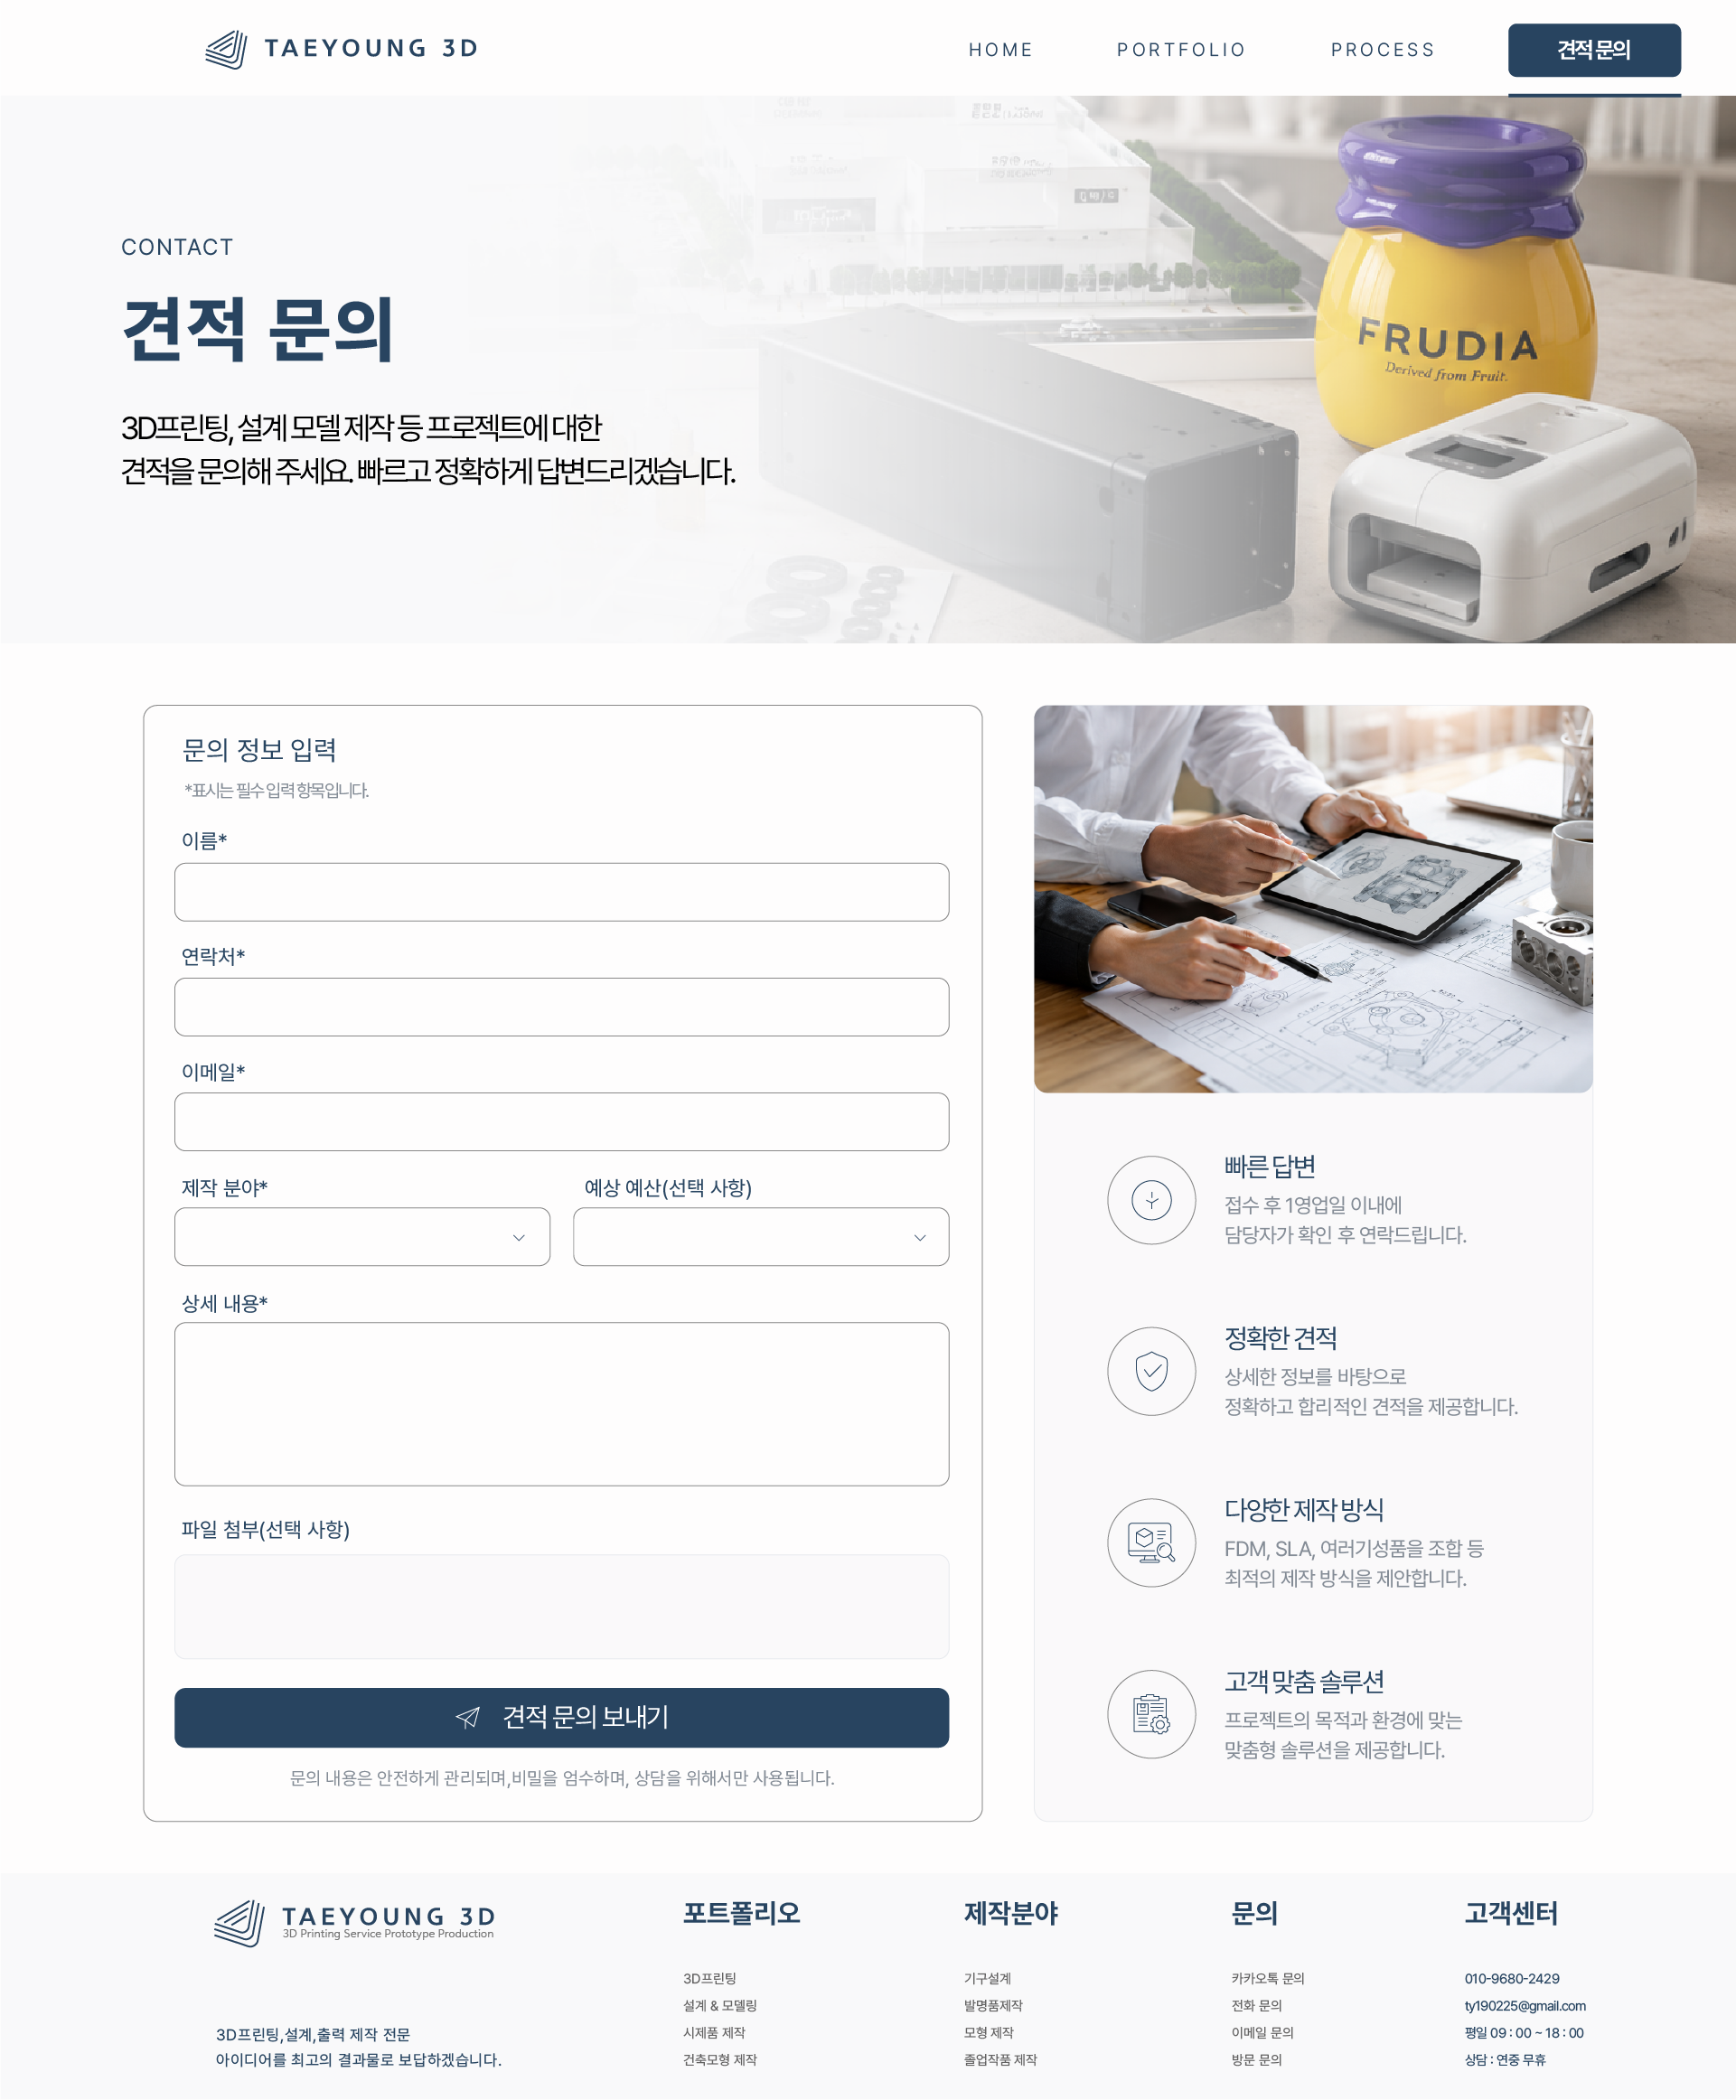
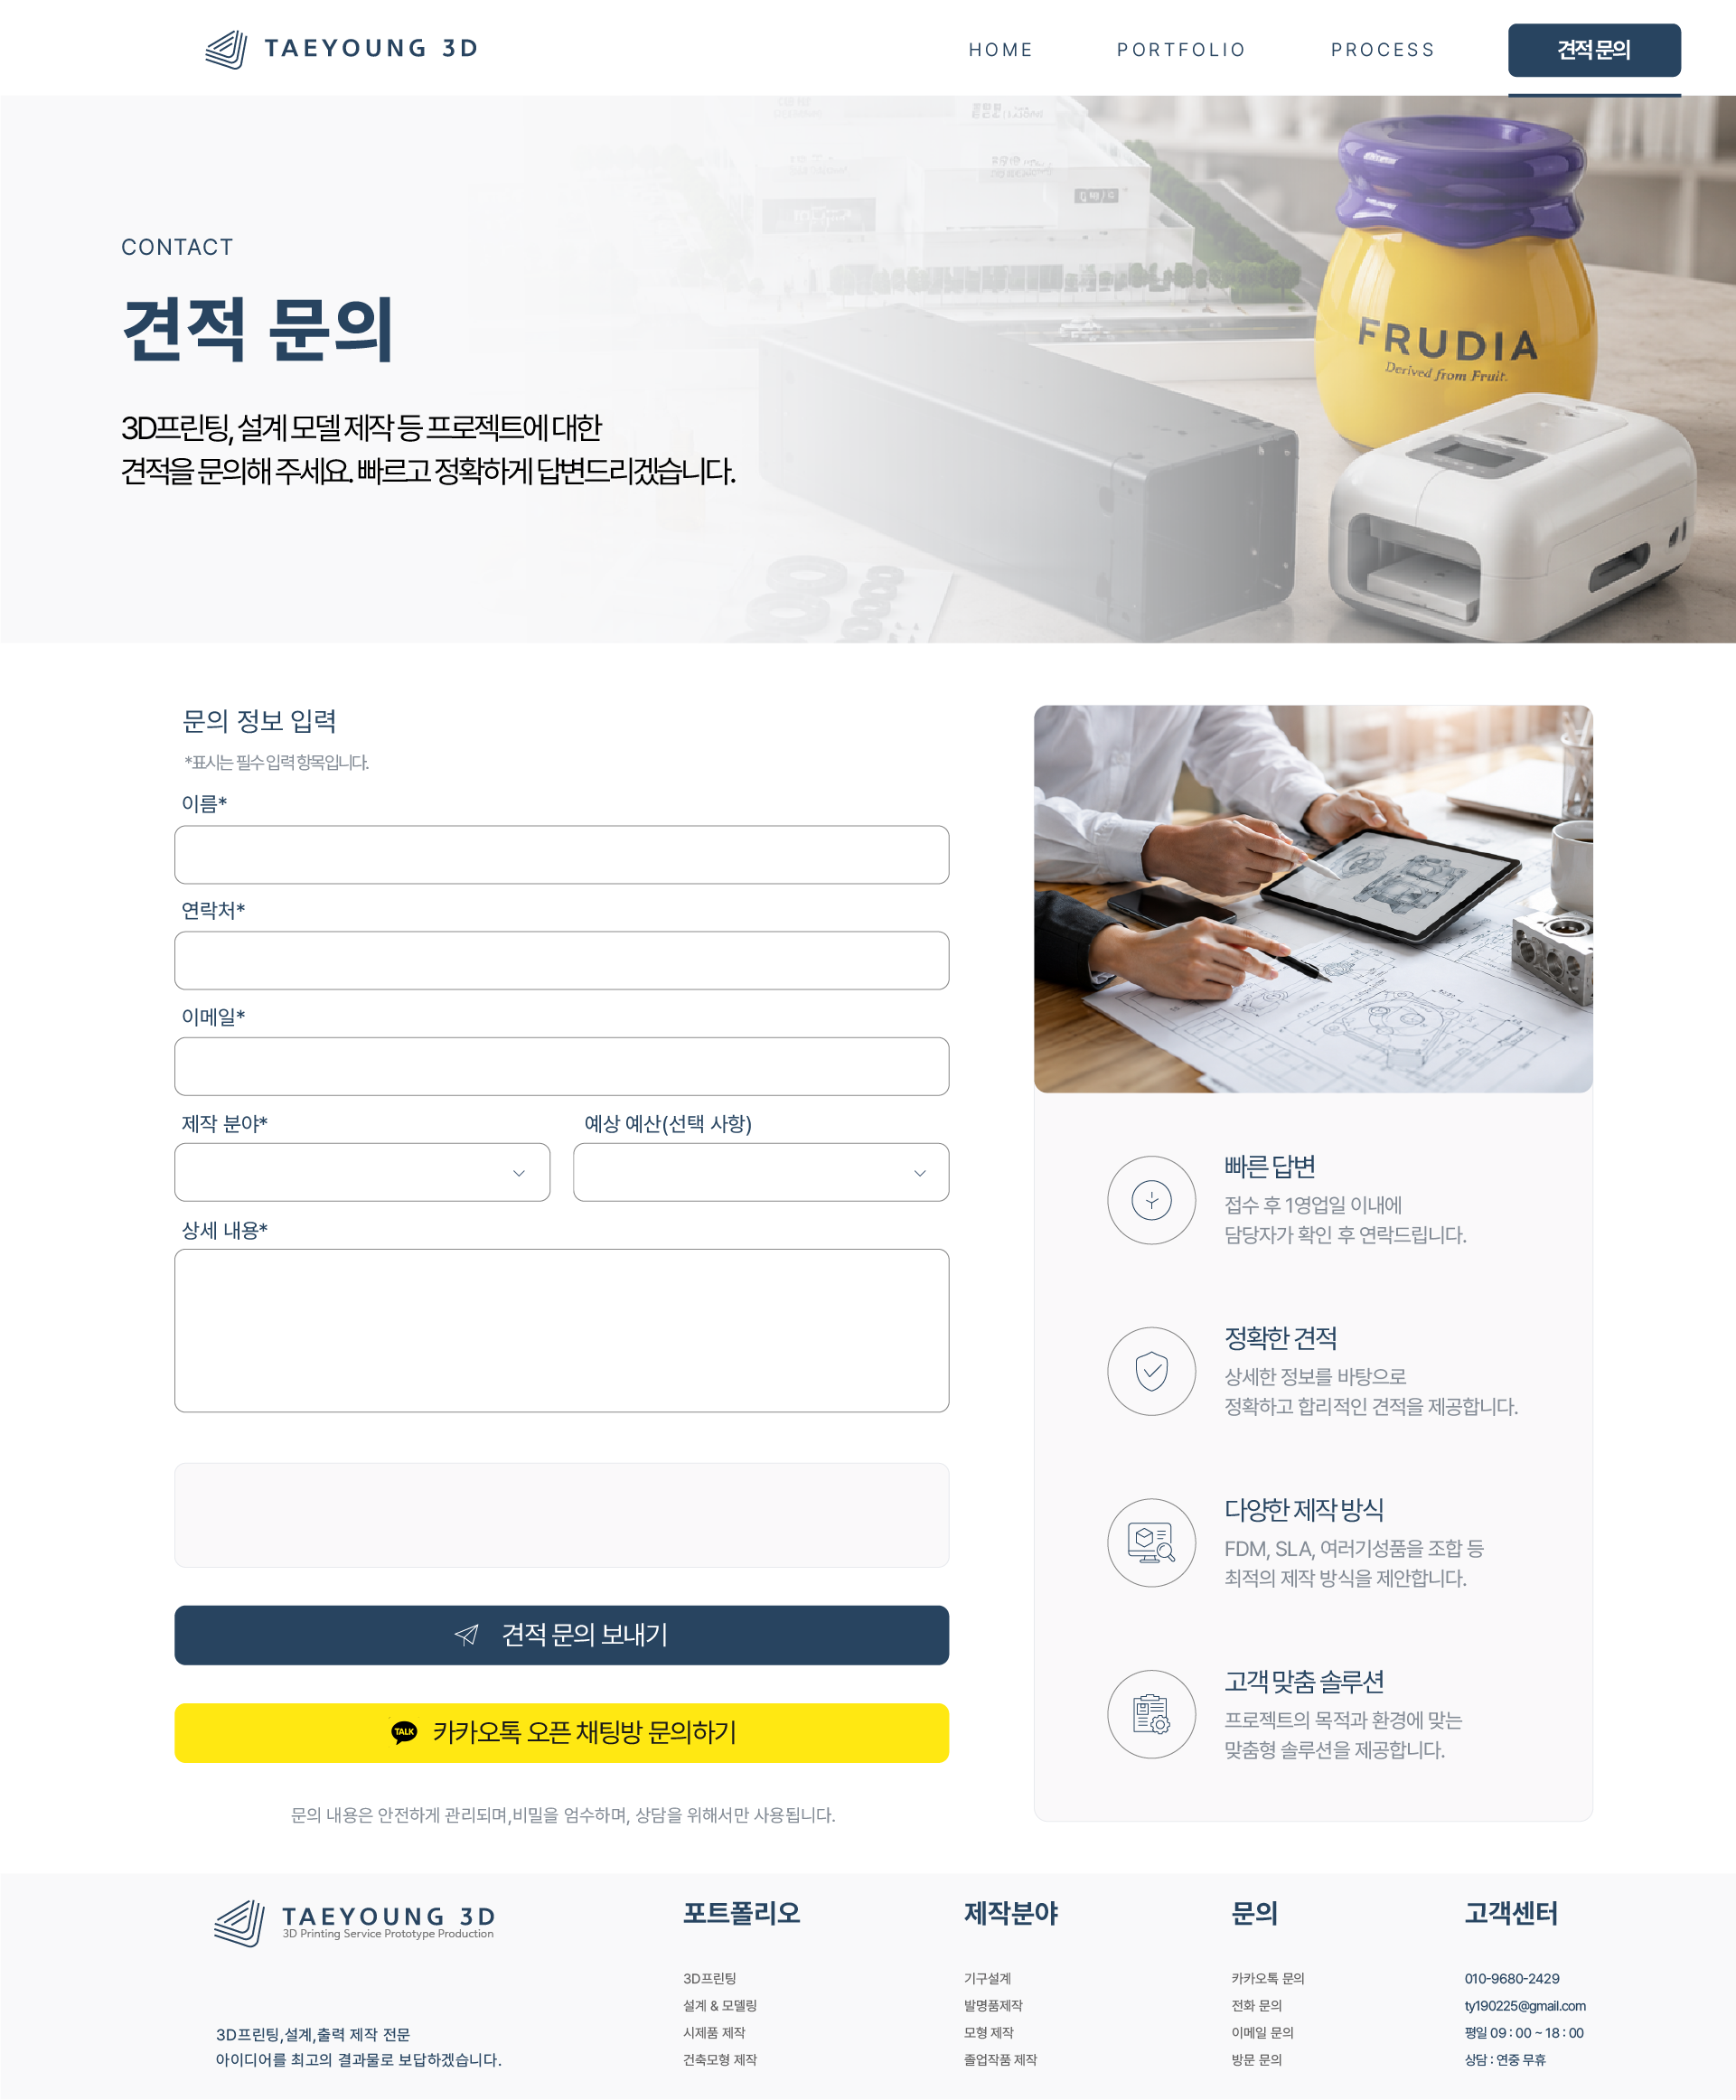
move homepage to root

Changed region(s): [[0.0937, 0.7126, 0.5622, 0.8675], [0.0937, 0.3408, 0.2186, 0.5886], [0.3123, 0.5267, 0.4373, 0.5886]]

diff --git a/style.css b/style.css
@@ -311,24 +311,6 @@ PROCESS PAGE
 
 
 
-
-
-
-
-
-
-
-
-
-
-
-
-
-
-
-
-
-
 /* =========================
 CONTACT PAGE
 ========================= */
@@ -403,7 +385,6 @@ CONTACT PAGE
   color: #24435f;
 }
 
-/* input/select 내부 글자 위치 */
 .contact-form input,
 .contact-form select {
   padding-left: 22px;
@@ -412,20 +393,17 @@ CONTACT PAGE
   line-height: normal;
 }
 
-/* textarea 내부 글자 위치 */
 .contact-form textarea {
   padding: 22px 22px;
   resize: none;
   line-height: 1.5;
 }
 
-/* 안내 글자 */
 .contact-form input::placeholder,
 .contact-form textarea::placeholder {
   color: #8b96a3;
 }
 
-/* 셀렉트 */
 .contact-form select {
   appearance: none;
   -webkit-appearance: none;
@@ -437,7 +415,7 @@ CONTACT PAGE
 /* 이름 */
 .form-name {
   left: 10.15%;
-  top: 41.00%;
+  top: 39.20%;
   width: 44.95%;
   height: 2.85%;
 }
@@ -445,7 +423,7 @@ CONTACT PAGE
 /* 연락처 */
 .form-phone {
   left: 10.15%;
-  top: 46.50%;
+  top: 44.20%;
   width: 44.95%;
   height: 2.85%;
 }
@@ -453,7 +431,7 @@ CONTACT PAGE
 /* 이메일 */
 .form-email {
   left: 10.15%;
-  top: 51.92%;
+  top: 49.30%;
   width: 44.95%;
   height: 2.85%;
 }
@@ -461,7 +439,7 @@ CONTACT PAGE
 /* 제작 분야 */
 .form-category {
   left: 10.15%;
-  top: 57.35%;
+  top: 54.30%;
   width: 21.85%;
   height: 2.85%;
 }
@@ -469,7 +447,7 @@ CONTACT PAGE
 /* 예산 */
 .form-budget {
   left: 33.15%;
-  top: 57.35%;
+  top: 54.30%;
   width: 21.85%;
   height: 2.85%;
 }
@@ -477,49 +455,55 @@ CONTACT PAGE
 /* 상세 내용 */
 .form-detail {
   left: 10.15%;
-  top: 62.45%;
+  top: 59.45%;
   width: 44.95%;
   height: 7.55%;
 }
 
-/* 파일 첨부 */
+/* 파일 안내 박스 */
 .form-file {
   position: absolute;
   left: 10.15%;
-  top: 74.50%;
+  top: 70.20%;
   width: 44.95%;
   height: 4.95%;
   z-index: 130;
-  cursor: pointer;
   box-sizing: border-box;
   text-align: center;
-  padding-top: 23px;
-}
-
-.form-file input {
-  display: none;
+  padding-top: 14px;
+  pointer-events: none;
 }
 
 .file-main {
   display: block;
   color: #24435f;
-  font-size: 14px;
+  font-size: 13px;
+  font-weight: 700;
   line-height: 1.2;
 }
 
 .file-sub {
   display: block;
   color: #8b96a3;
-  font-size: 13px;
-  margin-top: 5px;
+  font-size: 11px;
+  margin-top: 4px;
   line-height: 1.2;
 }
 
-/* 버튼 */
+.file-mail {
+  display: block;
+  color: #24435f;
+  font-size: 12px;
+  font-weight: 700;
+  margin-top: 4px;
+  line-height: 1.2;
+}
+
+/* 견적 문의 버튼 */
 .form-submit {
   position: absolute;
   left: 10.15%;
-  top: 80.95%;
+  top: 76.4%;
   width: 44.95%;
   height: 2.95%;
   border: none;
@@ -528,6 +512,38 @@ CONTACT PAGE
   z-index: 140;
   font-size: 0;
 }
+
+/* 카카오 버튼 클릭 영역 */
+.kakao-link {
+  position: absolute;
+  left: 10.15%;
+  top: 81.00%;
+  width: 44.95%;
+  height: 2.95%;
+  z-index: 300;
+  display: block;
+}
+
+
+
+
+
+
+
+
+
+
+
+
+
+
+
+
+
+
+
+
+
 
 /* =========================
 상단 메뉴 클릭 우선순위 고정

diff --git a/contact.html b/contact.html
@@ -50,60 +50,29 @@
 
     <textarea name="message" class="form-detail" maxlength="1000" placeholder="프로젝트에 대한 내용을 자세히 입력해주세요." required></textarea>
 
-    <label class="form-file">
-      <input type="file" name="attachments" multiple accept=".jpg,.jpeg,.png,.pdf,.zip,.stl,.obj">
-      <span class="file-main">파일을 드래그하거나 클릭하여 첨부하세요.</span>
-      <span class="file-sub">도면, 이미지, 참고파일 등(최대 5개, 20MB이하)</span>
-    </label>
+    <div class="form-file file-guide">
+      <span class="file-main">도면·이미지·STL·ZIP 등의 모든 파일은 이메일로 직접 보내주세요.</span>
+      <span class="file-sub">문의 접수 후 아래 메일로 첨부파일을 보내주시면 확인 후 연락드립니다.</span>
+      <span class="file-mail">[email redacted]</span>
+    </div>
 
-    <button type="submit" class="form-submit">견적 문의 보내기</button>
+  <button type="submit" class="form-submit">견적 문의 보내기</button>
 
-  </form>
+<a href="https://open.kakao.com/o/sYUVISCb"
+   target="_blank"
+   class="kakao-link"></a>
+   
+</form>
 
 </main>
+
 <script>
   emailjs.init({
     publicKey: "pjwKWulAteuo11npm"
   });
 
   const form = document.getElementById('contactForm');
-  const fileInput = document.querySelector('.form-file input');
-  const fileMain = document.querySelector('.file-main');
-  const fileSub = document.querySelector('.file-sub');
   const submitBtn = document.querySelector('.form-submit');
-
-  fileInput.addEventListener('change', function () {
-    const files = Array.from(this.files);
-
-    if (files.length > 5) {
-      alert('파일은 최대 5개까지 첨부 가능합니다.');
-      this.value = '';
-      resetFileText();
-      return;
-    }
-
-    const totalSize = files.reduce((sum, file) => sum + file.size, 0);
-    const maxSize = 20 * 1024 * 1024;
-
-    if (totalSize > maxSize) {
-      alert('전체 파일 용량은 20MB 이하만 가능합니다.');
-      this.value = '';
-      resetFileText();
-      return;
-    }
-
-    if (files.length > 0) {
-      fileMain.textContent = files.length + '개 파일 선택됨';
-      fileSub.textContent = files.map(file => file.name).join(', ');
-    } else {
-      resetFileText();
-    }
-  });
-
-  function resetFileText() {
-    fileMain.textContent = '파일을 드래그하거나 클릭하여 첨부하세요.';
-    fileSub.textContent = '도면, 이미지, 참고파일 등(최대 5개, 20MB이하)';
-  }
 
   form.addEventListener('submit', function (e) {
     e.preventDefault();
@@ -124,7 +93,6 @@
       .then(function () {
         alert('견적 문의가 정상적으로 접수되었습니다.');
         form.reset();
-        resetFileText();
         submitBtn.disabled = false;
         submitBtn.textContent = '견적 문의 보내기';
       })
@@ -135,6 +103,7 @@
         submitBtn.textContent = '견적 문의 보내기';
       });
   });
+
 </script>
 
 </body>